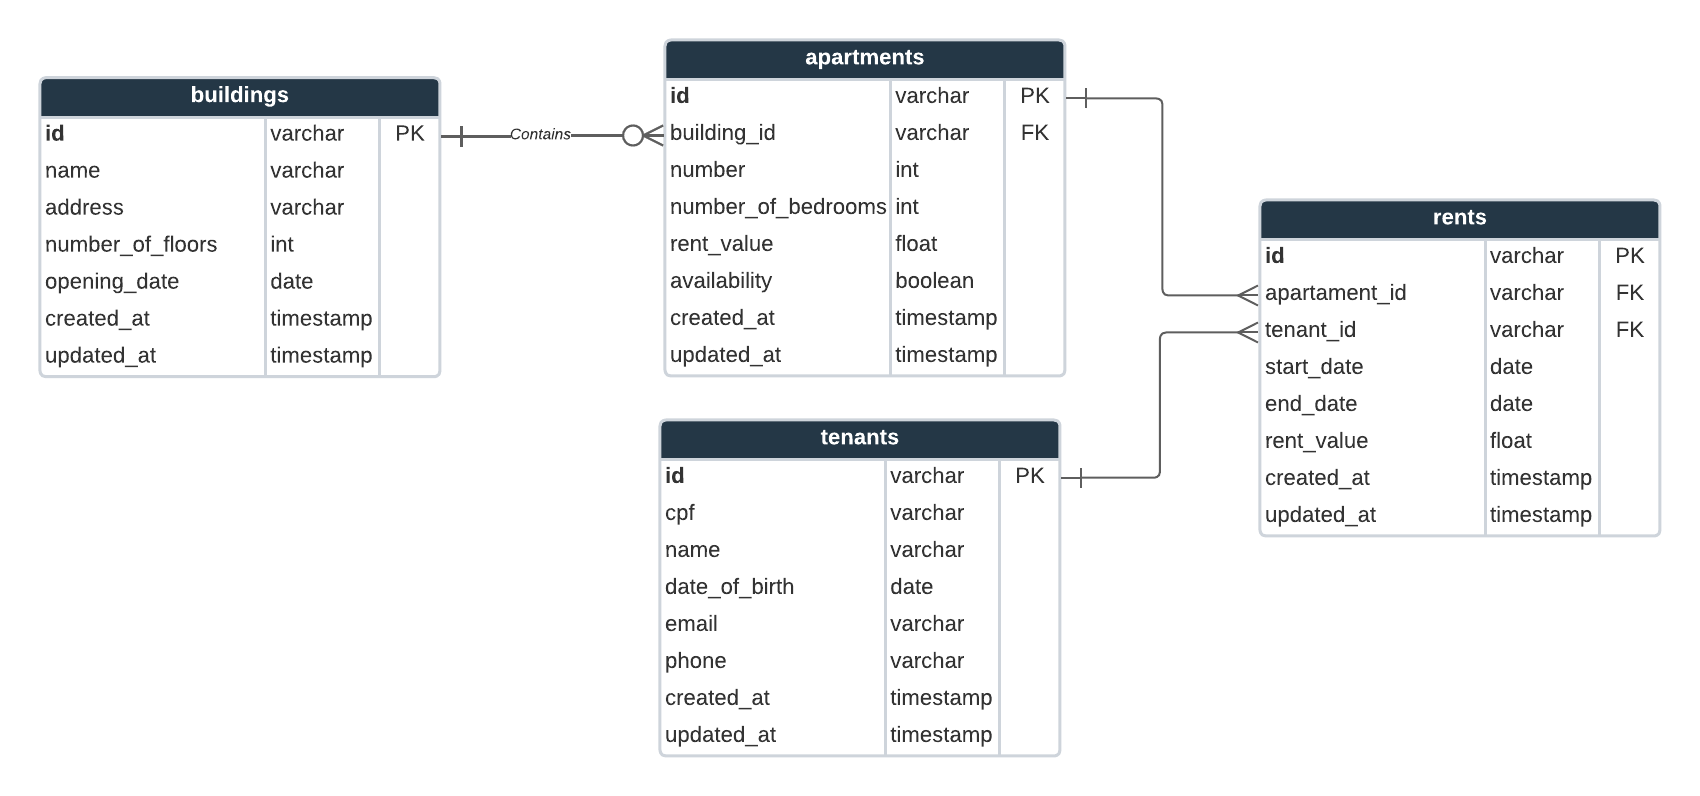
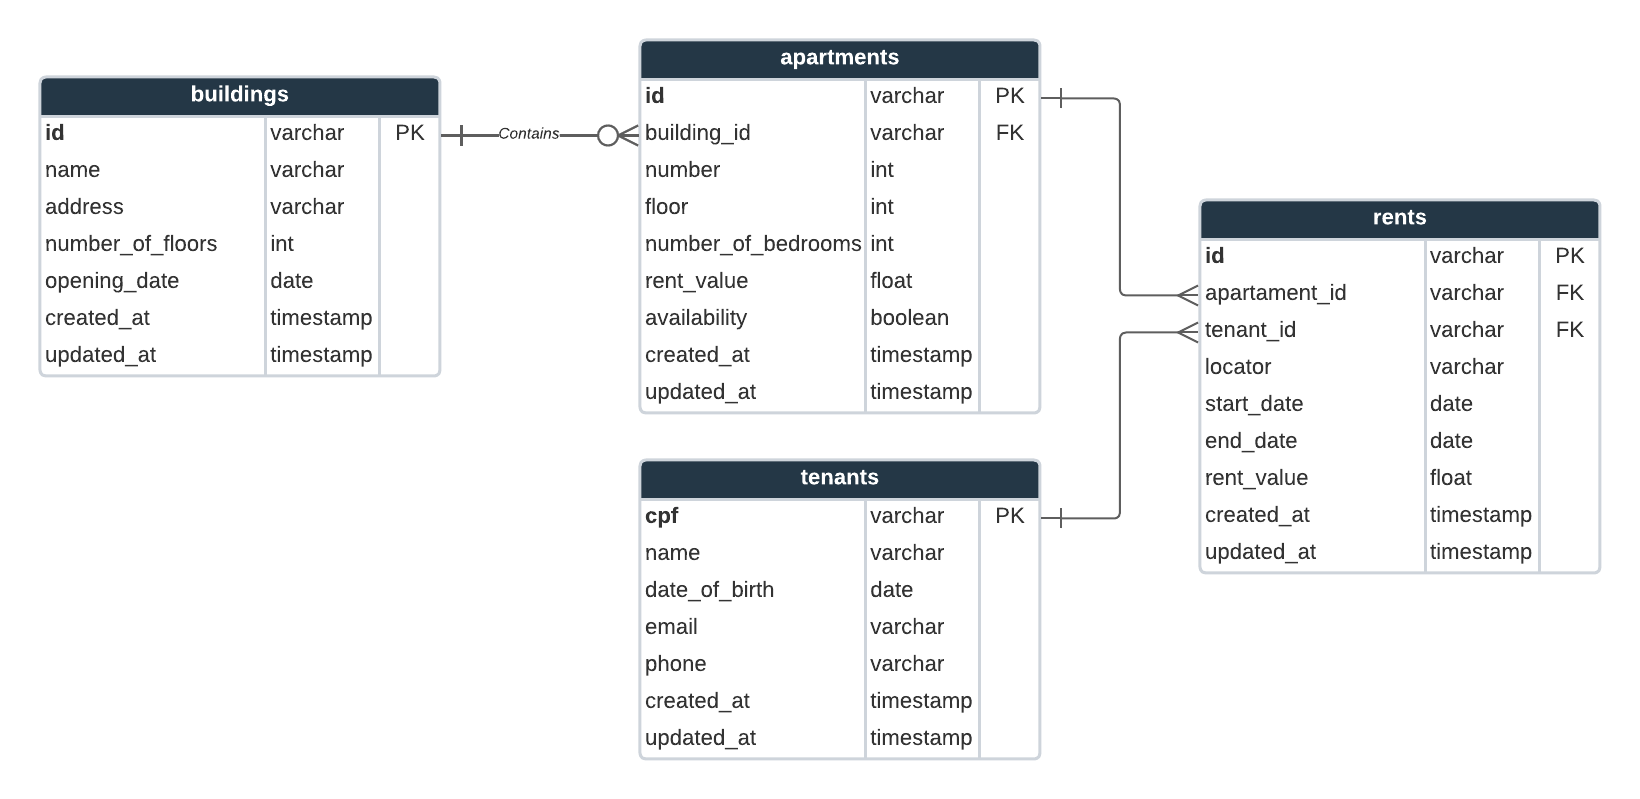
FIX: fields in the buildings, apartments, tenants and rents tables

diff --git a/backend/src/routes/buildings.ts b/backend/src/routes/buildings.ts
@@ -13,6 +13,7 @@ const createBuildingBodySchema = z.object({
 
 const createApartmentBodySchema = z.object({
   number: z.number().int(),
+  floor: z.number().int(),
   number_of_bedrooms: z.number().int(),
   rent_value: z.number(),
   availability: z.boolean(),
@@ -102,6 +103,7 @@ export async function buildingsRoutes(app: FastifyInstance) {
           id: randomUUID(),
           building_id: id,
           number: apartmentInfo.number,
+          floor: apartmentInfo.floor,
           number_of_bedrooms: apartmentInfo.number_of_bedrooms,
           rent_value: apartmentInfo.rent_value,
           availability: apartmentInfo.availability,
@@ -131,6 +133,7 @@ export async function buildingsRoutes(app: FastifyInstance) {
           select: {
             id: true,
             number: true,
+            floor: true,
             number_of_bedrooms: true,
             rent_value: true,
             availability: true,
